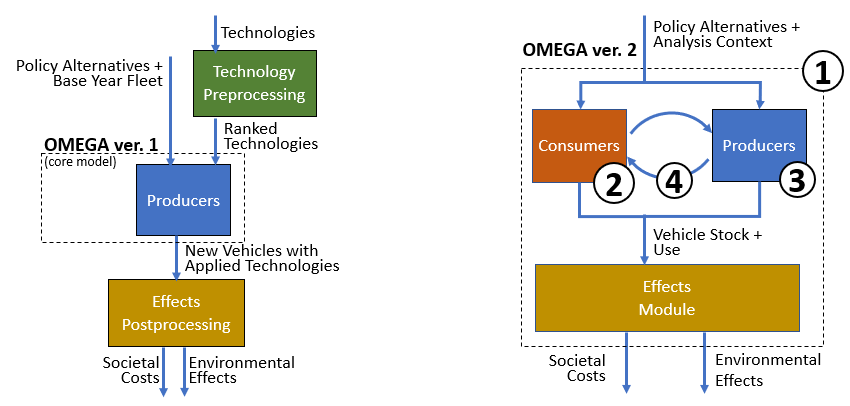
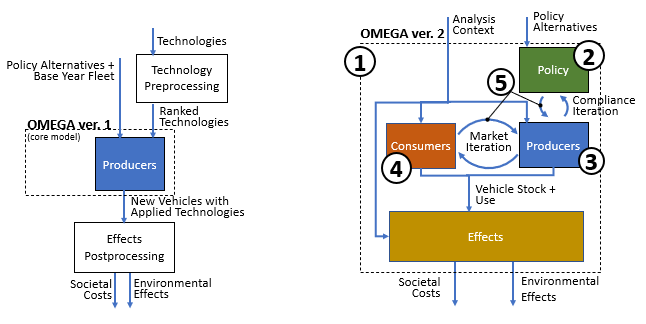
documentation updates

Changed region(s): [[0.5263, 0.0309, 1.0, 0.9568], [0.0, 0.0309, 0.4025, 0.9877]]

diff --git a/doc/source/overview.rst b/doc/source/overview.rst
@@ -2,13 +2,13 @@
 
 Model Overview
 ==============
-OMEGA is a modeling tool that has been developed by EPA to evaluate policies for reducing greenhouse gas emissions (GHG) from light duty vehicles. Like the prior releases, this latest version is a regulatory support tool that provides estimates of the effects and costs of policy alternatives under consideration. These include the costs associated with emissions-reducing technologies themselves and the items normally included in a societal benefit-cost analysis, as well as physical effects that are often reported in emissions inventories. Other potential uses for OMEGA may be valuable to stakeholders elsewhere -- including other parts of EPA, other agencies, NGOs, states, academia, and industry. We have attempted to emphasize modularity, transparency, and flexibility so that these stakeholders might design and develop modules to meet their own needs.
+The OMEGA model has been developed by EPA to evaluate policies for reducing greenhouse gas emissions (GHG) from light duty vehicles. Like the prior releases, this latest version is intended primarily to be used as a tool to support regulatory development by providing estimates of the effects and costs of policy alternatives under consideration. These include the costs associated with emissions-reducing technologies themselves and the items normally included in a societal benefit-cost analysis, as well as physical effects that include emissions quantities, and vehicle stock and usage.  In developing this version, we have attempted to emphasize modularity, transparency, and flexibility so that stakeholders can more easily review the model, conduct independent analyses, and potentially develop modules to meet their own needs.
 
 What's New in This Version 2.0
 ^^^^^^^^^^^^^^^^^^^^^^^^^^^^^^
-EPA created the initial release version of the OMEGA model to analyze new GHG standards for light-duty vehicles proposed in 2011. The 'core' model executable performed the function of identifying a manufacturer's cost-minimizing compliance pathway to meet a footprint-based fleet emissions standard specified by the user. A preprocessing step involved ranking the technology packages to be considered by the model based on cost-effectiveness. Postprocessing of outputs was performed separately using a spreadsheet tool, and later a scripted process which generated table summaries of modeled effects.
+EPA created the initial release version of the OMEGA model to analyze new GHG standards for light-duty vehicles proposed in 2011. The 'core' model performed the function of identifying manufacturers' cost-minimizing compliance pathways to meet a footprint-based fleet emissions standard specified by the user. A preprocessing step involved ranking the technology packages to be considered by the model based on cost-effectiveness. Postprocessing of outputs was performed separately using a spreadsheet tool, and later a scripted process which generated table summaries of modeled effects.
 
-With the release of Version 2.0, we aim to improve usability and flexibility while retaining the primary functions of the original version of OMEGA. :numref:`mo_label_compare` shows the overall model flow and highlights the main areas that have been revised and updated for version 2.0.
+With the release of version 2.0, we aim to improve usability and flexibility while retaining the primary functions of the original version of OMEGA. :numref:`mo_label_compare` shows the overall model flow and highlights the main areas that have been revised and updated.
 
 .. _mo_label_compare:
 .. figure:: _static/mo_figures/model_overview_compare_ver1_ver2.png
@@ -16,16 +16,15 @@ With the release of Version 2.0, we aim to improve usability and flexibility whi
 
     Comparison to prior version of OMEGA
 
-**Update #1: expanded model boundaries.** All models require the user to make decisions regarding inputs, and to put effort into preparing inputs and synthesizing outputs. In designing the scope of this version 2.0, we have attempted to reduce extraneous user interventions, and the model now has automated some of the pre- and post-processing that had previously been performed manually. When deciding the appropriate boundary, we considered whether parameters are assumed to be independent from policy alternatives, and whether they can be quantified using data for observable characteristics and phenomena. By placing parameters that meet both these criteria outside of the model boundary, we are aiming to achieve transparency of our inputs and assumptions by maintaining the connection to the underlying data. For the assumptions and algorithms within the model boundary, and the endogenous parameters with values that are responsive to policy alternatives, we aim for transparency through well-organized model code and complete documentation.
+**Update #1: expanded model boundaries.** In defining the scope of this model version, we have attempted to simplify the process of conducting a run by incorporating into the model some of the pre- and post-processing that had previously been performed manually. At the same time, we recognize that an overly-expansive model boundary can result in requirements for inputs that are difficult-to-specify. To avoid this, we have set the input boundary only so large as to capture the elements of the system we assume are responsive to policy. In general, model inputs can be quantified using data for observable, real-world characteristics and phenomena, and in that way enable transparency by allowing the user to maintain the connection to the underlying data. For the assumptions and algorithms within the model boundary, we aim for transparency through well-organized model code and complete documentation.
 
-**Update #2: an independent policy module.** The previous version of the OMEGA model was designed to analyze a very specific fleet averaging program structure, in which the emissions targets are assigned based on vehicle footprint and other attributes used to define a 'car' or 'truck' regulatory classes. During the development of version 2.0, we could not anticipate in advance all of the program structures that future users might wish to evaluate. The producer decision algorithms in this version have been designed to function on the most general rules of a program defined by fleet emissions averaging or required technology shares. Program details regarding how targets are determined and how compliance credits are treated over time are now confined to an independent policy module and associated policy inputs. This allows the developer to incorporate new policy structures without requiring revisions to other code modules.
+**Update #2: an independent policy module.** The previous version of OMEGA was designed to analyze a very specific GHG policy structure in which the vehicle attributes and regulatory classes used to determine emissions targets were incorporated into the code throughout the model. In order to make it easier to define and analyze other policy structures, the details regarding how targets are determined and how compliance credits are treated over time are now confined to an independent policy module and associated policy inputs. This allows the developer to incorporate new policy structures without requiring revisions to other code modules. Specifically, the producer decision module no longer contains any details specific to a GHG program structure, and instead functions only on very general program features such as fleet averaging of absolute GHG credits and required technology shares.
 
-**Update #3: the modeling of multi-year strategic producer decisions.** As a policy analysis tool, OMEGA is intended to model the effect of policies that extend well into he future, beyond the timeframe of individual product cycles. This version 2.0 of OMEGA is structured to consider a producer objective function to be optimized over the entire analysis period. This allows the explicit consideration of compliance decisions which account for year-over-year credit management,
+**Update #3: the modeling of multi-year strategic producer decisions.** As a policy analysis tool, OMEGA is intended to model the effect of policies that may extend well into the future, beyond the timeframe of individual product cycles. This version of OMEGA is structured to consider a producer objective function to be optimized over the entire analysis period. This allows the explicit consideration of compliance decisions which account for year-over-year credit management in the context of projections for technology cost and market conditions which change over time.
 
-**Update #4: the addition of a consumer response component.** The light-duty vehicle market, including the range of available technologies and services, has evolved significantly in the time since the initial release of OMEGA. Accordingly, the range of possible responses to policy alternatives has also become wider, and With version 2.0, market has seen significant need a well-defined boundary, and it's unavoidable that users will bemultiple EPA regulatory analyses between 2010 and 2016, the state of the world has changed dramatically over the years and the model’s assumptions and capabilities have become out of date since it was first created. A major change in the state of the world is an expanded focus beyond the traditional internal combustion engine (ICE) vehicle. Electric vehicle (EV) technology and markets have evolved significantly, and will likely continue to evolve. In addition, there are potential changes in mobility demand and new mobility services, including the use of light duty vehicles (LDVs) for deliver services, shared and autonomous fleets, and the increased focus on micromobility. We are unable to incorporate these changes in the previous OMEGA model. In addition, our model design capabilities and the tools available to us have expanded. Taken together, this has led us to create a new OMEGA model. This new OMEGA model is an open source compliance and effects modeling tool that is transparent, user-friendly, and has the flexibility to evaluate a broad range of transportation policy, technology and market scenarios.
+**Update #4: the addition of a consumer response component.** The light-duty vehicle market has evolved significantly in the time since the initial release of OMEGA. In particular, as the range of available technologies and services has grown wider, so has the range of possible responses to policy alternatives. The model structure for this version includes a module that can be used to define how the light-duty vehicle market responds to policy-driven changes in price, fuel operating costs, and other consumer-facing vehicle attributes. The module outputs the estimated responses for overall sales and sales shares, as well as vehicle re-registration and use, which together determine the stock of new and used vehicles and the associated allocation of total VMT.
 
-**Update #5: the addition of a feedback loop between the consumer and producer decision modules.** This version of OMEGA is structured around modeling the interactions between vehicle producers responding to a policy and consumers who own and use those vehicles. In building upon the earlier version's capability to model producer compliance decisions, OMEGA now has the necessary structure to model not only changes in vehicle emissions rates, but also responses to changes in vehicle attributes that are more directly observable to consumers.
-
+**Update #5: the addition of feedback loops for producer decisions.** This version of OMEGA is structured around modeling the interactions between vehicle producers responding to a policy and consumers who own and use those vehicles. These interactions are bi-directional, in that the producer's compliance planning and vehicle design decisions will both influence, and be influenced by, the sales and shares of vehicles sold and the GHG credits assigned under the policy. Iterative feedback loops have now been incorporated between the producer and consumer modules, and between the producer and policy modules.
 
 Inputs and Outputs
 ^^^^^^^^^^^^^^^^^^

diff --git a/doc/source/archalgo.rst b/doc/source/archalgo.rst
@@ -6,7 +6,9 @@ Model Architecture and Algorithms
 
 Overview of Model Inputs
 ^^^^^^^
-As described in the overview, OMEGA model inputs are grouped into two categories:  1) assumptions about the structure and the stringency of the policies being evaluated within the model (these are the policy alternatives) and 2) external assumptions that apply to all policies under analysis (collectively referred to as the analysis context).  The policy alternatives define the policy being evaluated in each OMEGA run and are described in the Policy Module section.  The analysis context inputs (which include more traditional inputs like fuel prices, technology assumptions, etc) are discussed within the descriptions of the associated modules that use them. 
+.. todo: [this section should just focus on what type of information is provided by the input files, and not about where the data comes from]
+
+As described in the overview, OMEGA model inputs are grouped into two categories:  1) assumptions about the structure and the stringency of the policies being evaluated within the model (these are the policy alternatives) and 2) external assumptions that apply to all policies under analysis (collectively referred to as the analysis context).  The policy alternatives define the policy being evaluated in each OMEGA run and are described in the Policy Module section.  The analysis context inputs (which include more traditional inputs like fuel prices, technology assumptions, etc) are discussed within the descriptions of the associated modules that use them.
 
 The lists of policy alternatives and analysis context inputs are provided below.  Each input is described in more detail in each of the module descriptions listed later in this section.
 

diff --git a/doc/source/inputs.rst b/doc/source/inputs.rst
@@ -5,7 +5,7 @@ User Guide
 
 Preparing Inputs and Assumptions
 ^^^^^^^^^^^^^^^^^^^^^^^^^^^^^^^^
-Tips body text
+.. todo: [This section should discuss how the user might change the input files, or prepare their own. The focus should be on things like a) dynamic field names that the user specifies, b) important areas where consistency between inputs must be maintained, and c) limits of only changing input files, beyond which code changes are needed.  We can also talk about where some of the key inputs might come from (like vehicle simulation and cost data) but only as examples.]
 
 .. _graphical_user_interface_label:
 
